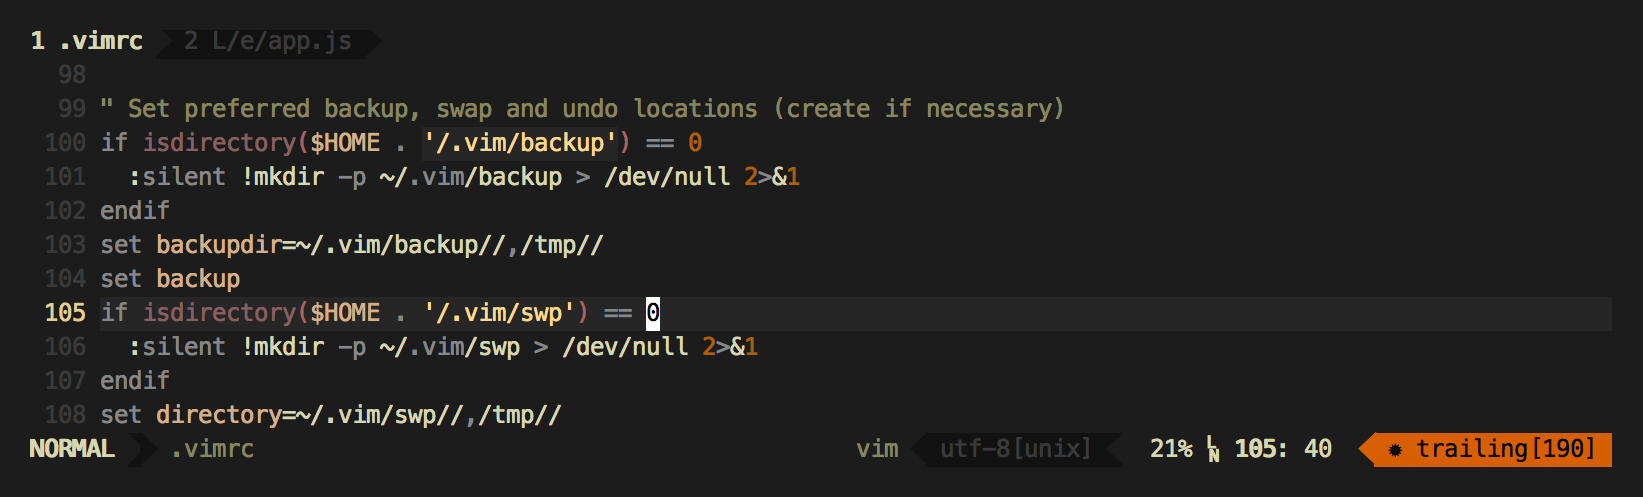
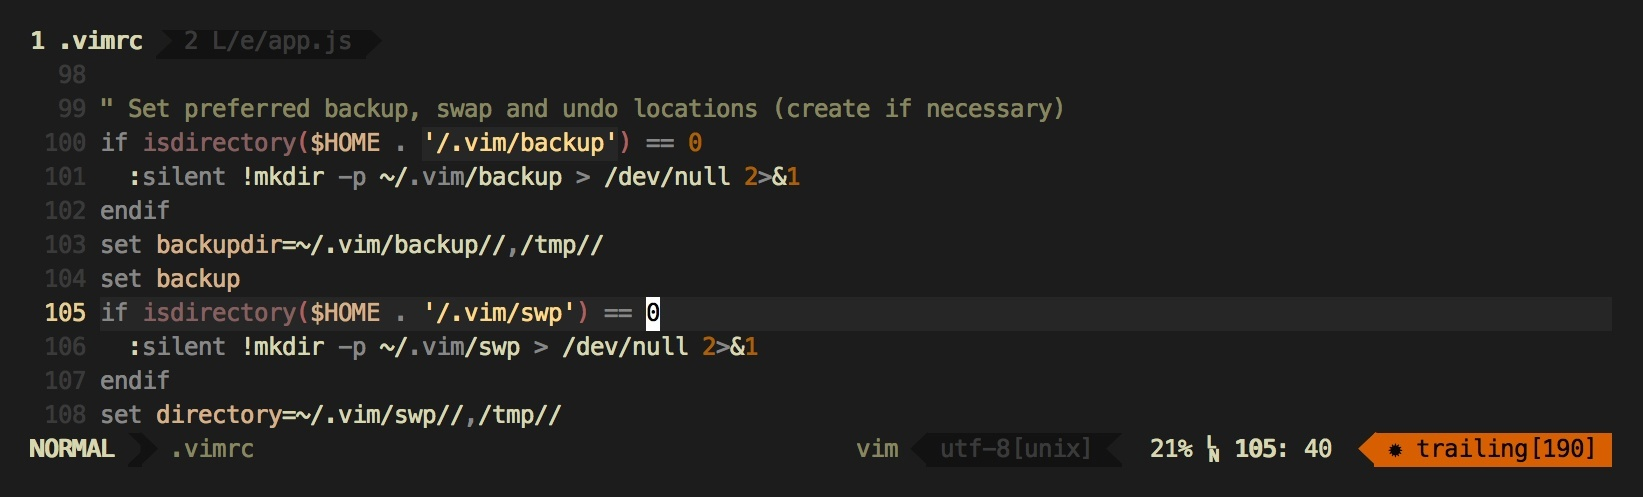
Update screenshot reference. Optimize screenshot image.

diff --git a/README.md b/README.md
@@ -4,7 +4,7 @@ dotfiles
 
 For use with iTerm2 color scheme 'Twilight'.
 
-![Vim Screenshot](https://github.com/sblaurock/dotfiles/raw/master/vim-screenshot.png "Vim Screenshot")
+![Vim Screenshot](https://github.com/sblaurock/dotfiles/raw/master/vim-screenshot.jpg "Vim Screenshot")
 
 ## Vim Key Commands
 | Command | Action |
